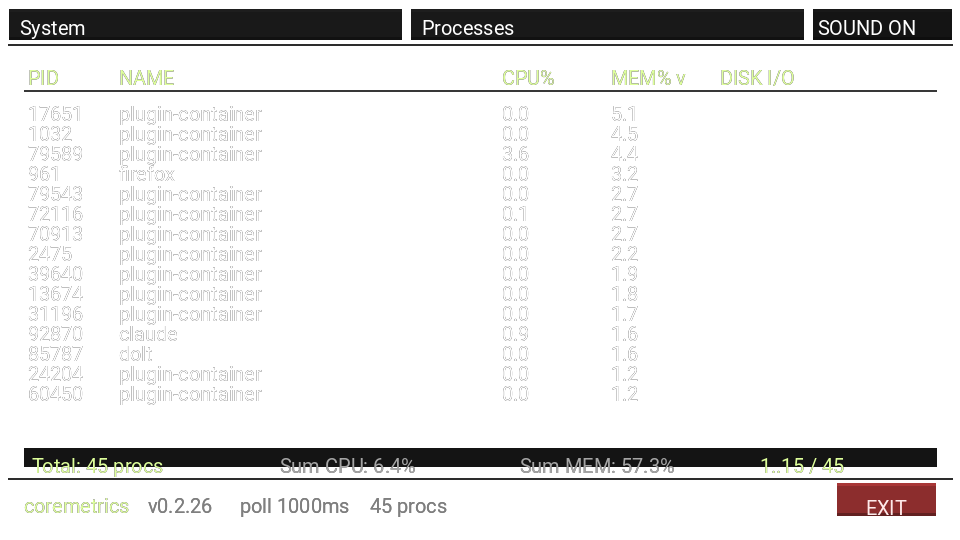
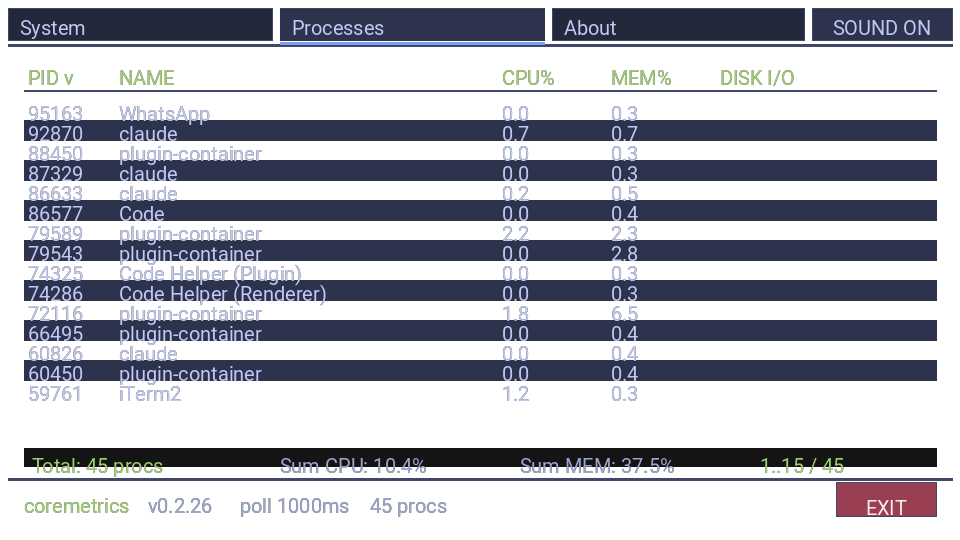
docs(readme): refresh demo loop + screenshots to v0.3 visuals (#229)
After 22 UI PRs this cycle (Tokyo Night palette, cards, flat buttons,
title-size readouts, sparkline tint bump, About tab) the README hero
loop and the static screenshot row no longer matched the binary's
actual output. This commit:

- Regenerates assets/coremetrics-demo.gif and .mp4 from six fresh
  frames captured via the binary's own --screenshot mode (2 x System
  + 2 x Processes + 2 x About).
- Replaces assets/screenshot-system.png and screenshot-processes.png
  with v0.3-era captures.
- Adds the new assets/screenshot-about.png and extends the
  screenshot-row table to include the About tab.

diff --git a/README.md b/README.md
@@ -47,12 +47,12 @@ CoreMetrics is a graphical system monitor that ships in **1.6 MB on disk** and h
 
 Roughly **1/3 the RAM of Activity Monitor** and **1/2 of iStat Menus** at a comparable feature set, while shipping a real graphical UI rather than a terminal table. Numbers above measured on macOS arm64; the Linux and Windows builds use the same backend split and the same render path. The renderer itself is a from-scratch `Screen` class on top of raw SDL3 surfaces, no Electron, no Qt, no Skia.
 
-| System tab | Processes tab |
-|:---:|:---:|
-| ![System tab](assets/screenshot-system.png) | ![Processes tab](assets/screenshot-processes.png) |
-| CPU / RAM / GPU / DISK readouts, load-colored (RAM and DISK red past 80%), per-core strip, memory breakdown segments, uptime + load average, optional sparklines | Sortable / filterable process table with PID / NAME / CPU% / MEM% / DISK I/O columns, parent-child tree view, row selection, and signal menu (TERM / KILL / INT / HUP / STOP / CONT) |
+| System tab | Processes tab | About tab |
+|:---:|:---:|:---:|
+| ![System tab](assets/screenshot-system.png) | ![Processes tab](assets/screenshot-processes.png) | ![About tab](assets/screenshot-about.png) |
+| CPU / RAM / GPU / DISK readouts, load-colored (RAM and DISK red past 80%), per-core strip, memory breakdown segments, uptime + load average, optional sparklines | Sortable / filterable process table with PID / NAME / CPU% / MEM% / DISK I/O columns, parent-child tree view, row selection, and signal menu (TERM / KILL / INT / HUP / STOP / CONT) | Host snapshot: CPU model, OS + arch, hostname, total RAM, uptime, logical cores, battery, license, source |
 
-> Both frames are rendered by the app itself, headlessly: `coremetrics --screenshot out.png [system|processes]` runs one render pass to an offscreen surface and saves it, no window required. The extension picks the writer (`.png` via `IMG_SavePNG`, anything else via `SDL_SaveBMP`).
+> Every frame is rendered by the app itself, headlessly: `coremetrics --screenshot out.png [system|processes|about]` runs one render pass to an offscreen surface and saves it, no window required. The extension picks the writer (`.png` via `IMG_SavePNG`, anything else via `SDL_SaveBMP`).
 
 New here? [**DOCS.md**](DOCS.md) maps the whole repo; [**API.md**](API.md) is the full public library reference (every class and method).
 